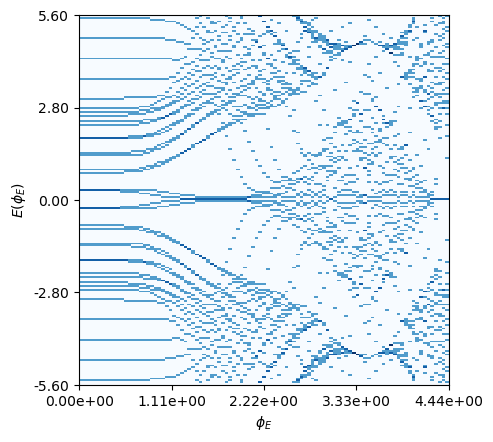
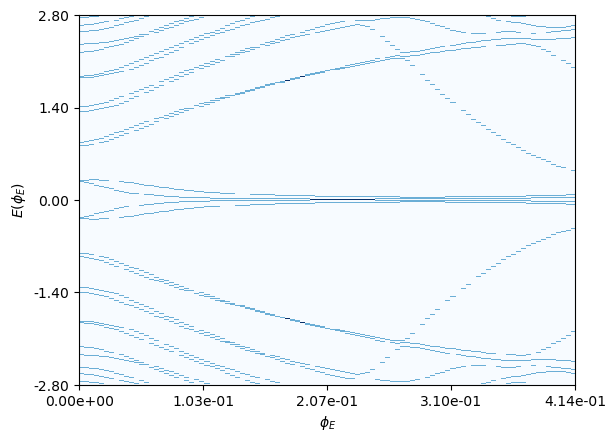
Added a gaussian DOS and projected gaussian DOS. Dirac tbm still not matching the range of phi_0 values for the continuum model. I am suspecting there may be a factor missing in the Dirac continuum model for the C term.

Changed region(s): [[0.0, 0.0, 1.0, 0.9706], [0.5172, 0.5, 0.5477, 0.5294], [0.3651, 0.3235, 0.3955, 0.3529]]

diff --git a/floquet-landau-levels-qhe/dirac-model/plot-projection-dos.py b/floquet-landau-levels-qhe/dirac-model/plot-projection-dos.py
@@ -4,9 +4,13 @@ import numpy as np
 import matplotlib.pyplot as plt
 import matplotlib.ticker as mtick
 import glob
+from scipy.stats import gaussian_kde
 
 # load configuration values
-config = np.loadtxt('./data/config.txt')
+mc = 4
+rc = 5
+filepath = './data/rc-%02i-mc-%02i/' % (rc, mc)
+config = np.loadtxt(filepath+'config.txt')
 rc = int(config[0])
 mc = int(config[1])
 h = float(config[2])
@@ -15,7 +19,6 @@ phimax = float(config[4])
 nphi = int(config[5])
 #phi = np.array([(i/nphi)**(1/2) for i in range(nphi)])*phimax
 strnphi = str(nphi)
-filepath = './data/rc-%02i-mc-%02i/' % (rc, mc)
 
 nr = 2*rc+1
 nm = 2*mc+1
@@ -29,8 +32,10 @@ stateslist = sorted( glob.glob( filepath+'eigenstate-phi-*.txt') )
 # calculate weight/projection on 0th order Block
 weight = np.zeros( (nphi, 4*nr*nm) )
 for i, statefilename in enumerate(stateslist):
-  states = np.loadtxt( statefilename, dtype=complex, skiprows=m0, max_rows=4*nr )
+  #states = np.loadtxt( statefilename, dtype=complex, skiprows=m0, max_rows=4*nr )
+  states = np.loadtxt( statefilename, dtype = complex)
   weight[i,:] = np.diag( np.real( np.matmul( states.conj().T, states ) ) , k=0 )
+  #weight[i,:] = np.diag( states, k=0 )
 
 #wavg = np.average(weight)
 #weight = weight[0::4,:]
@@ -46,62 +51,72 @@ for i, statefilename in enumerate(stateslist):
 # calculate a weighted/projected density of states as a function of phi
 Emax = np.max(energy)
 Emin = np.min(energy)
-Emax = +2.0*h
-Emin = -2.0*h
-nE = 2*nphi
-dE = (Emax-Emin)/(nE-1)
-E = np.array([i*dE+Emin for i in range(nE)])
+Emax = +1.0*h
+Emin = -1.0*h
+nE = 400
+dE = (Emax - Emin)/(nE-1)
+#E = np.array([i*dE+Emin for i in range(nE)])
+E = np.arange(0,nE)*dE+Emin
 
 # place weighted eigenvalues in an energy box-bin (also a normal dos)
 wE = np.zeros((nphi,nE))
 gE = np.zeros((nphi,nE))
+gausgE = np.zeros((nphi,nE))
+gauswE = np.zeros((nphi,nE))
+sigma = dE
+sig2 = sigma**2
+norm = (sigma*np.sqrt(np.pi))**(-1)
 for i in range(nphi):
   #eidx = np.where(np.logical_and(energy[:,i]>=Emin, energy[:,i]<=Emax))[0]
+  gausgE[i,0] = norm*np.sum(np.exp( -(E[0] - energy[:,i])**2 / sig2))
+  gauswE[i,0] = norm*np.sum(weight[i,:]*np.exp( -(E[0] - energy[:,i])**2 / sig2))
   for j in range(nE-1):
     #idx = np.where(np.logical_and(energy[eidx,i]>E[j],energy[eidx,i]<E[j+1]))[0]
     idx = np.where(np.logical_and(energy[:,i]>=E[j],energy[:,i]<E[j+1]))[0]
     wE[i,j+1] = np.sum(weight[i,idx])
-    gE[i,j+1] = np.sum(np.size(idx))
+    gE[i,j+1] = np.size(idx)
+    gausgE[i,j+1] = norm*np.sum(np.exp( -(E[j+1] - energy[:,i])**2 / sig2))
+    gauswE[i,j+1] = norm*np.sum(weight[i,:]*np.exp( -(E[j+1] - energy[:,i])**2 / sig2))
 
 #wE[wE!=0]=1
 # setup plot for weighted density of states
 fig, ax = plt.subplots(1,1)
+x = np.linspace(phimin,phimax,nphi//2)
+phi = np.linspace(phimin,phimax,nphi)
+Eng = np.linspace(Emin,Emax,nE)
+y = 0.9*x**1.5 +0.191*2
+X, Y = np.meshgrid(phi,Eng)
 
 # set x-axis
-xticks = np.linspace(-1,1,5, endpoint=True)
+xticks = np.linspace(phimin,phimax,5, endpoint=True)
 xlabelarray = np.linspace( phimin, phimax, 5, endpoint=True)
 ax.set_xticks(xticks)
 ax.set_xticklabels(['%1.2e' % val for val in xlabelarray])
 ax.set_xlabel('$\phi_E$')
 
 # set y-axis
-yticks = np.linspace(-1,1,5, endpoint=True)
+yticks = np.linspace(Emin,Emax,5, endpoint=True)
 ylabelarray = np.linspace(Emin, Emax, 5, endpoint=True)
 ax.set_yticks(yticks)
 ax.set_yticklabels(['%1.2f' % val for val in ylabelarray])
 ax.set_ylabel('$E(\phi_E)$')
 
 # plot and save figures
-img = ax.imshow( ( np.flipud(wE[1:].transpose()) )**(0.5), interpolation='nearest', cmap='Blues', extent=[-1,1,-1,1])
-plt.savefig('./figures/dos-projection.pdf', bbox_inches='tight')
-plt.savefig('./figures/dos-projection.png', bbox_inches='tight')
-
 # normal dos
-img = ax.imshow( (np.flipud(gE[1:].transpose()) )**(1.0), interpolation='spline16', cmap='Blues', extent=[-1,1,-1,1])
+img = ax.imshow( (np.flipud(gE[1:].transpose()) )**(1.0), interpolation='spline16', cmap='Blues', extent=[X.min(), X.max(), Y.min(), Y.max()], aspect='auto')
 plt.savefig('./figures/dos-full.pdf', bbox_inches='tight')
 
+# proj dos
+img = ax.imshow(( np.flipud(wE[1:].transpose()) )**(1.0), interpolation='nearest', cmap='Blues', extent=[X.min(), X.max(), Y.min(), Y.max()], aspect='auto')
+#ax.plot(x,y, 'k.')
+#plt.plot(x,y, 'k--')
+plt.savefig('./figures/dos-projection.pdf', bbox_inches='tight')
 
-# This section only works when hbar*w >> h (hopping) to have well separated bands
-plt.figure()
-plt.tight_layout()
-#plt.grid("True")
-plt.xlim(0,phimax)
-plt.ylim(Emin, Emax)
-plt.xlabel('$\phi_{B_{eff}} = \phi_E$')
-plt.ylabel('$E(\phi_E)$')
-x = np.linspace(phimin,phimax,nphi)
-for i in range(4*nr*nm):
-  #plt.plot(x,energy[nr*(mc+0)+i,:])
-  plt.plot(x,energy[i,:], 'k.')
-plt.savefig('./figures/line-full.pdf', bbox_inches='tight')
-plt.savefig('./figures/line-full.png', bbox_inches='tight')
+# gaussian dos
+img = ax.imshow( (np.flipud(gausgE.transpose()) )**(1.0), interpolation='spline16', cmap='Blues', extent=[X.min(), X.max(), Y.min(), Y.max()], aspect='auto')
+plt.savefig('./figures/dos-gauss.pdf', bbox_inches='tight')
+
+# projected gaussian dos
+img = ax.imshow( (np.flipud(gauswE.transpose()) )**(1.0), interpolation='spline16', cmap='Blues', extent=[X.min(), X.max(), Y.min(), Y.max()], aspect='auto')
+plt.savefig('./figures/dos-gauss-projection.pdf', bbox_inches='tight')
+

diff --git a/floquet-landau-levels-qhe/tbm-examples/plot-dirac-projection-dos.py b/floquet-landau-levels-qhe/tbm-examples/plot-dirac-projection-dos.py
@@ -40,60 +40,58 @@ for i, statefilename in enumerate(stateslist):
 # calculate a weighted/projected density of states as a function of phi
 Emax = np.max(energy)
 Emin = np.min(energy)
-Emax = +2.0*h
-Emin = -2.0*h
-nE = 2*nphi
+Emax = +1.0*h
+Emin = -1.0*h
+nE = 400
 dE = (Emax-Emin)/(nE-1)
 E = np.array([i*dE+Emin for i in range(nE)])
 
 # place weighted eigenvalues in an energy box-bin (also a normal dos)
 wE = np.zeros((nphi,nE))
 gE = np.zeros((nphi,nE))
+gausE = np.zeros((nphi,nE))
+sigma = dE
+sig2 = sigma**2
+norm = (sigma*np.sqrt(np.pi))**(-1)
 for i in range(nphi):
-  eidx = np.where(np.logical_and(energy[:,i]<Emax, energy[:,i]>Emin))
+  #eidx = np.where(np.logical_and(energy[:,i]<Emax, energy[:,i]>Emin))
+  gausE[i,0] = norm*np.sum(np.exp( -(E[0]-energy[:,i])**2 / sig2))
   for j in range(nE-1):
-    idx = np.where(np.logical_and(energy[eidx,i]>E[j],energy[eidx,i]<E[j+1]))[0]
+    idx = np.where(np.logical_and(energy[:,i]>E[j],energy[:,i]<E[j+1]))[0]
+    gausE[i,j+1] = norm*np.sum(weight[i,:]*np.exp( -(E[j+1]-energy[:,i])**2 / sig2))
     wE[i,j+1] = np.sum(weight[i,idx])
     gE[i,j+1] = np.sum(np.size(idx))
 
 #wE[wE!=0]=1
 # setup plot for weighted density of states
 fig, ax = plt.subplots(1,1)
+phi = np.linspace(phimin,phimax,nphi)
+eng = np.linspace(Emin,Emax,nE)
+X, Y = np.meshgrid(phi, eng)
 
 # set x-axis
-xticks = np.linspace(-1,1,5, endpoint=True)
+xticks = np.linspace(phimin,phimax,5, endpoint=True)
 xlabelarray = np.linspace( phimin, phimax, 5, endpoint=True)
 ax.set_xticks(xticks)
 ax.set_xticklabels(['%1.2e' % val for val in xlabelarray])
 ax.set_xlabel('$\phi_E$')
 
 # set y-axis
-yticks = np.linspace(-1,1,5, endpoint=True)
+yticks = np.linspace(Emin,Emax,5, endpoint=True)
 ylabelarray = np.linspace(Emin, Emax, 5, endpoint=True)
 ax.set_yticks(yticks)
 ax.set_yticklabels(['%1.2f' % val for val in ylabelarray])
 ax.set_ylabel('$E(\phi_E)$')
 
 # plot and save figures
-img = ax.imshow( ( np.flipud(wE[1:].transpose()) )**(0.5), interpolation='nearest', cmap='Blues', extent=[-1,1,-1,1])
+img = ax.imshow( ( np.flipud(wE[1:].transpose()) )**(1.0), interpolation='nearest', cmap='Blues', extent=[X.min(), X.max(), Y.min(), Y.max()], aspect='auto')
 plt.savefig('./figures/dos-projection.pdf', bbox_inches='tight')
 plt.savefig('./figures/dos-projection.png', bbox_inches='tight')
 
 # normal dos
-img = ax.imshow( (np.flipud(gE[1:].transpose()) )**(1.0), interpolation='spline16', cmap='Blues', extent=[-1,1,-1,1])
+img = ax.imshow( ( np.flipud(gE[1:].transpose()) )**(1.0), interpolation='nearest', cmap='Blues', extent=[X.min(), X.max(), Y.min(), Y.max()], aspect='auto')
 plt.savefig('./figures/dos-full.pdf', bbox_inches='tight')
 
-
-# This section only works when hbar*w >> h (hopping) to have well separated bands
-plt.figure()
-plt.tight_layout()
-#plt.grid("True")
-plt.xlim(0,phimax)
-plt.ylim(Emin, 0)
-plt.xlabel('$\phi_{B_{eff}} = \phi_E$')
-plt.ylabel('$E(\phi_E)$')
-x = np.linspace(phimin,phimax,nphi)
-for i in range(4*nr):
-  plt.plot(x,energy[i,:])
-plt.savefig('./figures/line-full.pdf', bbox_inches='tight')
-plt.savefig('./figures/line-full.png', bbox_inches='tight')
+# gaussian dos
+img = ax.imshow( ( np.flipud(gausE.transpose()) )**(1.0), interpolation='nearest', cmap='Blues', extent=[X.min(), X.max(), Y.min(), Y.max()], aspect='auto')
+plt.savefig('./figures/dos-gaussian.pdf', bbox_inches='tight')

diff --git a/floquet-landau-levels-qhe/dirac-model/fll-dirac-tbm.py b/floquet-landau-levels-qhe/dirac-model/fll-dirac-tbm.py
@@ -5,10 +5,6 @@ import os
 import glob
 import pathlib
 
-files = glob.glob('./data/eig*')
-for f in files:
-  os.remove(f)
-
 
 # Constants
 hbar = 6.582E-16 # 6.582 * 10^-16 [eV*s]
@@ -28,13 +24,13 @@ ka = k*a
 
 # Laser parameters
 hw = 191e-3 # [meV]
-Emax = 2e9 # V/m
+Emax = 1.5e9 # V/m
 d = 100E-9 # [m] Spatial period of the electric field of laser in x direction, make sure d>>a and not necessarily integer multiple
 K = 2*pi/d # Spatial wavenumber of laser light in x direction
 
 # Matrix cutoffs
 # Number of modes
-mc = 10
+mc = 4
 Nm = 2*mc+1
 nhw = np.arange(-mc,mc+1,1)*hw
 
@@ -44,8 +40,19 @@ xm = rc*a
 Nr = 2*rc+1
 xj = np.linspace(-xm, xm, Nr)
 
+
+m0 = mc*4*Nr
+mf = (mc+1)*4*Nr
+parr = np.append(np.append(np.zeros(mc),1),np.zeros(mc))
+#proj = np.kron(np.diag(parr,k=0),np.ones((4*Nr,4*Nr)))
+proj = np.kron(np.diag(parr,k=0),np.eye(4*Nr))
+
 filepath = './data/rc-%02i-mc-%02i/' % (rc, mc)
 pathlib.Path(filepath).mkdir(parents=True, exist_ok=True)
+files = glob.glob(filepath + 'eig*')
+for f in files:
+  os.remove(f)
+
 
 phimin = 0
 #phimax = 1e9 # unitless
@@ -109,8 +116,9 @@ for i, phi in enumerate(phi0):
 
   eng, vec = np.linalg.eigh(Q, UPLO = 'L')
   energy[:,i] = eng
+  vecm0 = np.real(np.matmul(vec.conj().T,proj))
   #energy[:,i] = eng[(mc+0)*4*Nr:(mc+1)*4*Nr]
-  np.savetxt(filepath+'eigenstate-phi-%03i.txt' % (i), vec, fmt = '%1.8f')
+  np.savetxt(filepath+'eigenstate-phi-%03i.txt' % (i), vec[m0:mf,:], fmt = '%1.8f')
 
 
 np.savetxt(filepath+'eng-matrix.txt', energy, fmt='%1.8f')

diff --git a/floquet-landau-levels-qhe/tbm-examples/plot-projection-dos.py b/floquet-landau-levels-qhe/tbm-examples/plot-projection-dos.py
@@ -58,7 +58,9 @@ for i in range(nphi):
 #wE[wE!=0]=1
 # setup plot for weighted density of states
 fig, ax = plt.subplots(1,1)
-
+phi = np.linspace(phimin,phimax,nphi)
+eng = np.linspace(Emin,Emax,nE)
+X, Y = np.meshgrid(phi,eng)
 # set x-axis
 xticks = np.linspace(-1,1,5, endpoint=True)
 xlabelarray = np.linspace( phimin, phimax, 5, endpoint=True)
@@ -74,12 +76,12 @@ ax.set_yticklabels(['%1.2f' % val for val in ylabelarray])
 ax.set_ylabel('$E(\phi_E)$')
 
 # plot and save figures
-img = ax.imshow( ( np.flipud(wE[1:].transpose()) )**(0.5), interpolation='nearest', cmap='Blues', extent=[-1,1,-1,1])
+img = ax.imshow( ( np.flipud(wE[1:].transpose()) )**(0.5), interpolation='nearest', cmap='Blues', extent=[X.min(), X.max(), Y.min(), Y.max()], aspect='auto')
 plt.savefig('./figures/dos-projection.pdf', bbox_inches='tight')
 plt.savefig('./figures/dos-projection.png', bbox_inches='tight')
 
 # normal dos
-img = ax.imshow( (np.flipud(gE[1:].transpose()) )**(1.0), interpolation='spline16', cmap='Blues', extent=[-1,1,-1,1])
+img = ax.imshow( ( np.flipud(gE[1:].transpose()) )**(1.0), interpolation='nearest', cmap='Blues', extent=[X.min(), X.max(), Y.min(), Y.max()], aspect='auto')
 plt.savefig('./figures/dos-full.pdf', bbox_inches='tight')
 
 

diff --git a/floquet-landau-levels-qhe/tbm-examples/magnetic-ll-dirac-tbm.py b/floquet-landau-levels-qhe/tbm-examples/magnetic-ll-dirac-tbm.py
@@ -25,7 +25,7 @@ k = 0.0*pi/(3*a) # [m^-1] Momentum space wavenumber Probably shouldn't be zero f
 ka = k*a
 
 # Magnetic parameters
-Bmax = 145000 # T
+Bmax = 13500 # T
 
 # Size of system in x direction
 rc = 6
@@ -39,7 +39,7 @@ phimax = Bmax*a**2/hbar # unitless
 nphi = 100
 phi0 = np.linspace(phimin,phimax,nphi)
 #Ka = np.linspace(-k*a,k*a,nphi)
-phi0 = np.array([ (phimin + i/nphi)**(3/1) for i in range(nphi) ] ) * phimax
+phi0 = np.array([ (phimin + i/nphi)**(1/1) for i in range(nphi) ] ) * phimax
 energy = np.zeros( (4*Nr, nphi) )
 #energy = np.zeros( (4*Nr, nphi) )
 H = np.zeros( (4*Nr,4*Nr) , dtype='complex')

diff --git a/floquet-landau-levels-qhe/tbm-examples/1d-chain.py b/floquet-landau-levels-qhe/tbm-examples/1d-chain.py
@@ -13,6 +13,8 @@ k = np.arange(1,n+1)*2*np.pi/(L)
 print(k)
 
 H = mu * np.diag(np.ones(n),k=0) - h * np.diag(np.ones(n-1),k=-1)
+# Adding periodic conditions makes k = 2*pi*n/L
+H[-1,0] = -h
 
 evals, evecs = np.linalg.eigh(H, UPLO = 'L')
 print(evals)
